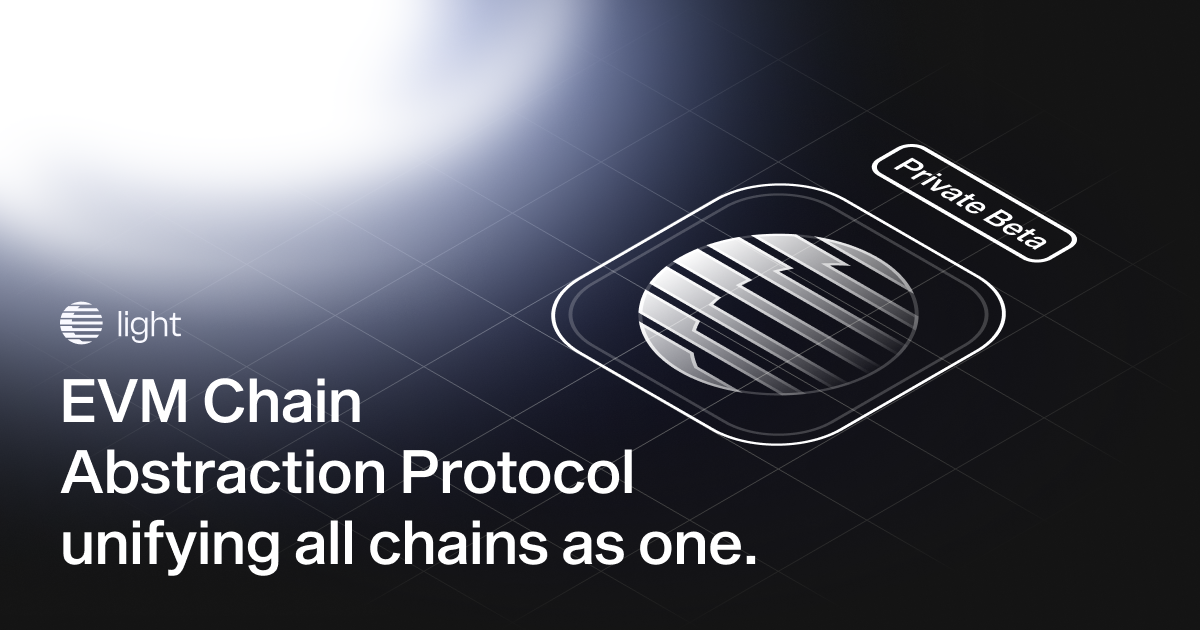
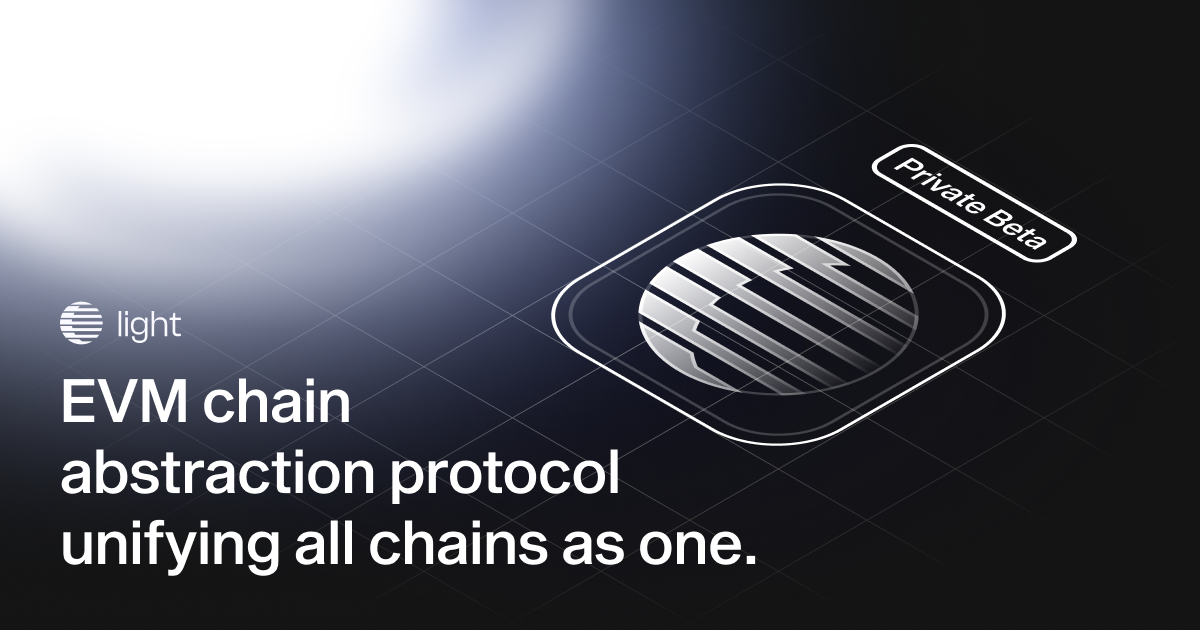
feat: ini page features (#1894)
* feat: ini page features

* chore: update

* chore: update

Changed region(s): [[0.0308, 0.6032, 0.5242, 0.8143]]

diff --git a/apps/paper/vocs.config.tsx b/apps/paper/vocs.config.tsx
@@ -176,41 +176,45 @@ export default defineConfig({
               link: "/light-programmable-intents/actors",
             },
             {
-              text: "Intent Engine",
-              link: "/light-programmable-intents/engine",
+              text: "Types of Intents",
+              link: "/light-programmable-intents/intents",
             },
           ],
         },
       ],
     },
     {
-      text: "Concepts",
-      link: "/concepts",
+      text: "Features",
+      link: "/features",
       collapsed: false,
       items: [
         {
           text: "Cross-chain Smart Account",
-          link: "/concepts/cross-chain-smart-account",
+          link: "/features/cross-chain-smart-account",
         },
         {
           text: "Gas Abstraction",
-          link: "/concepts/gas-abstraction",
+          link: "/features/gas-abstraction",
         },
         {
           text: "Programmable Execution",
-          link: "/concepts/programmable-execution",
+          link: "/features/programmable-execution",
         },
         {
           text: "Keystore Sync",
-          link: "/concepts/keystore-sync",
+          link: "/features/keystore-sync",
         },
         {
           text: "Signature Aggregation",
-          link: "/concepts/signature-aggregation",
+          link: "/features/signature-aggregation",
         },
         {
           text: "Transaction Batching",
-          link: "/concepts/transaction-batching",
+          link: "/features/transaction-batching",
+        },
+        {
+          text: "Intent Engine",
+          link: "/features/intent-engine",
         },
       ],
     },